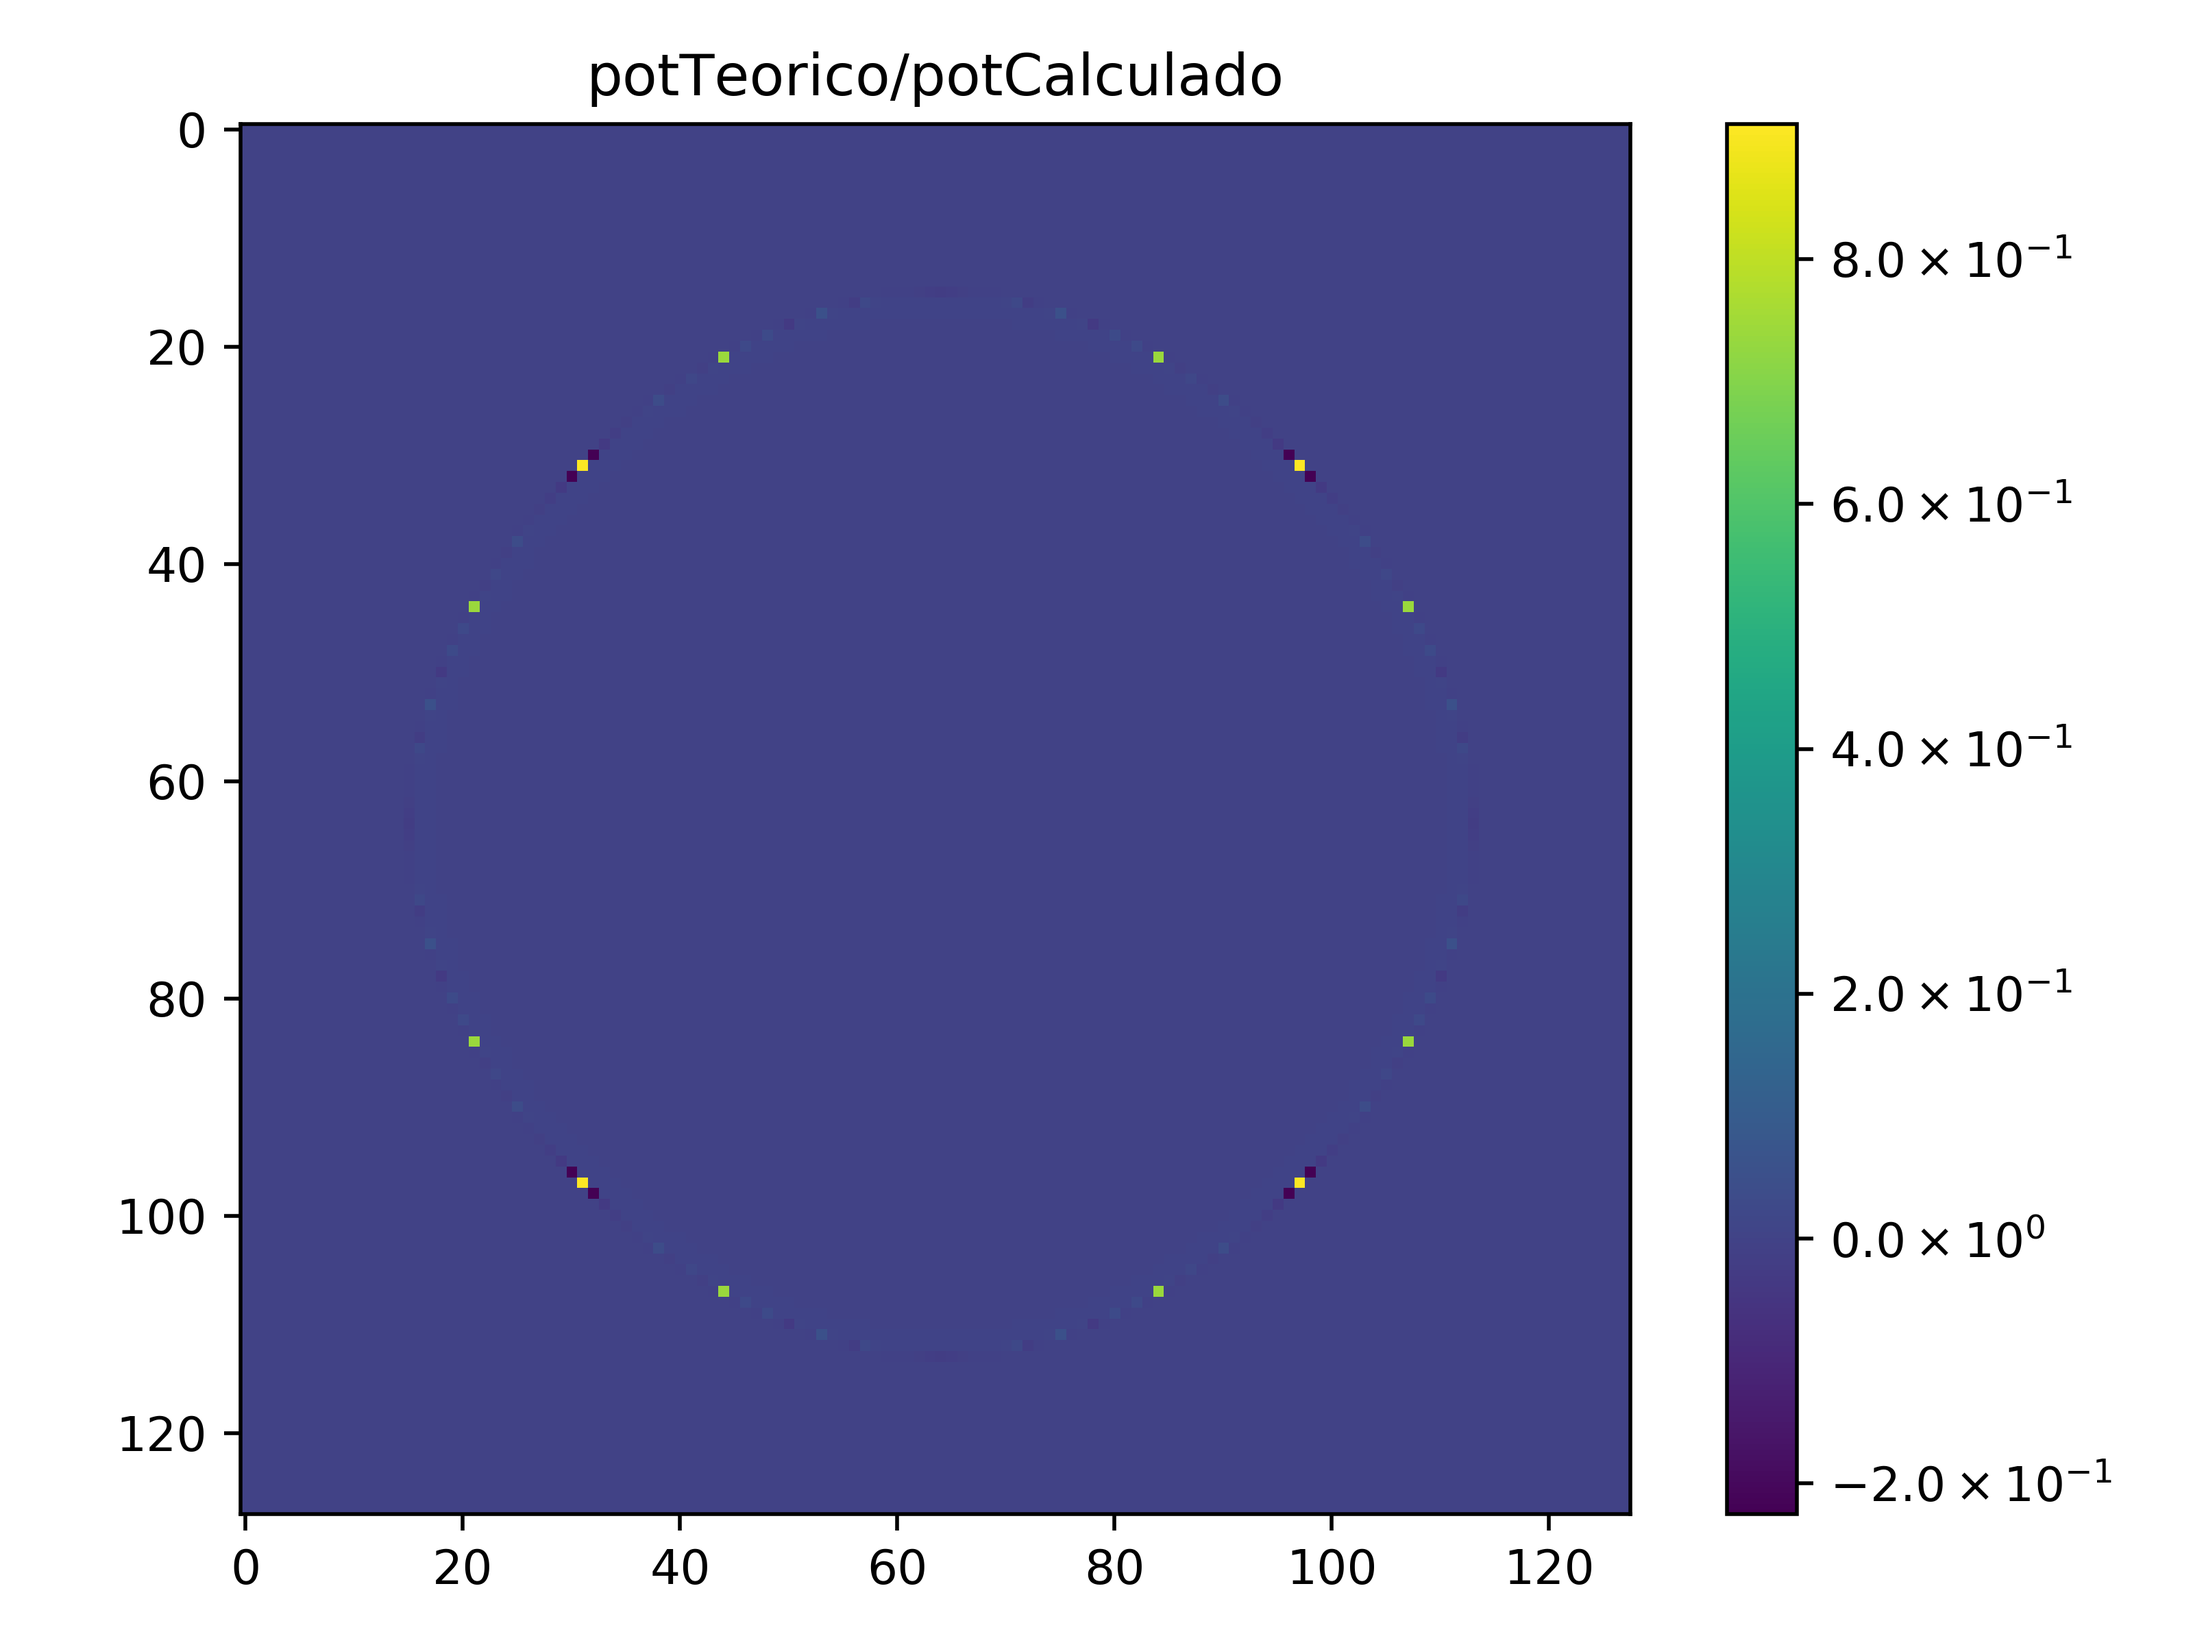
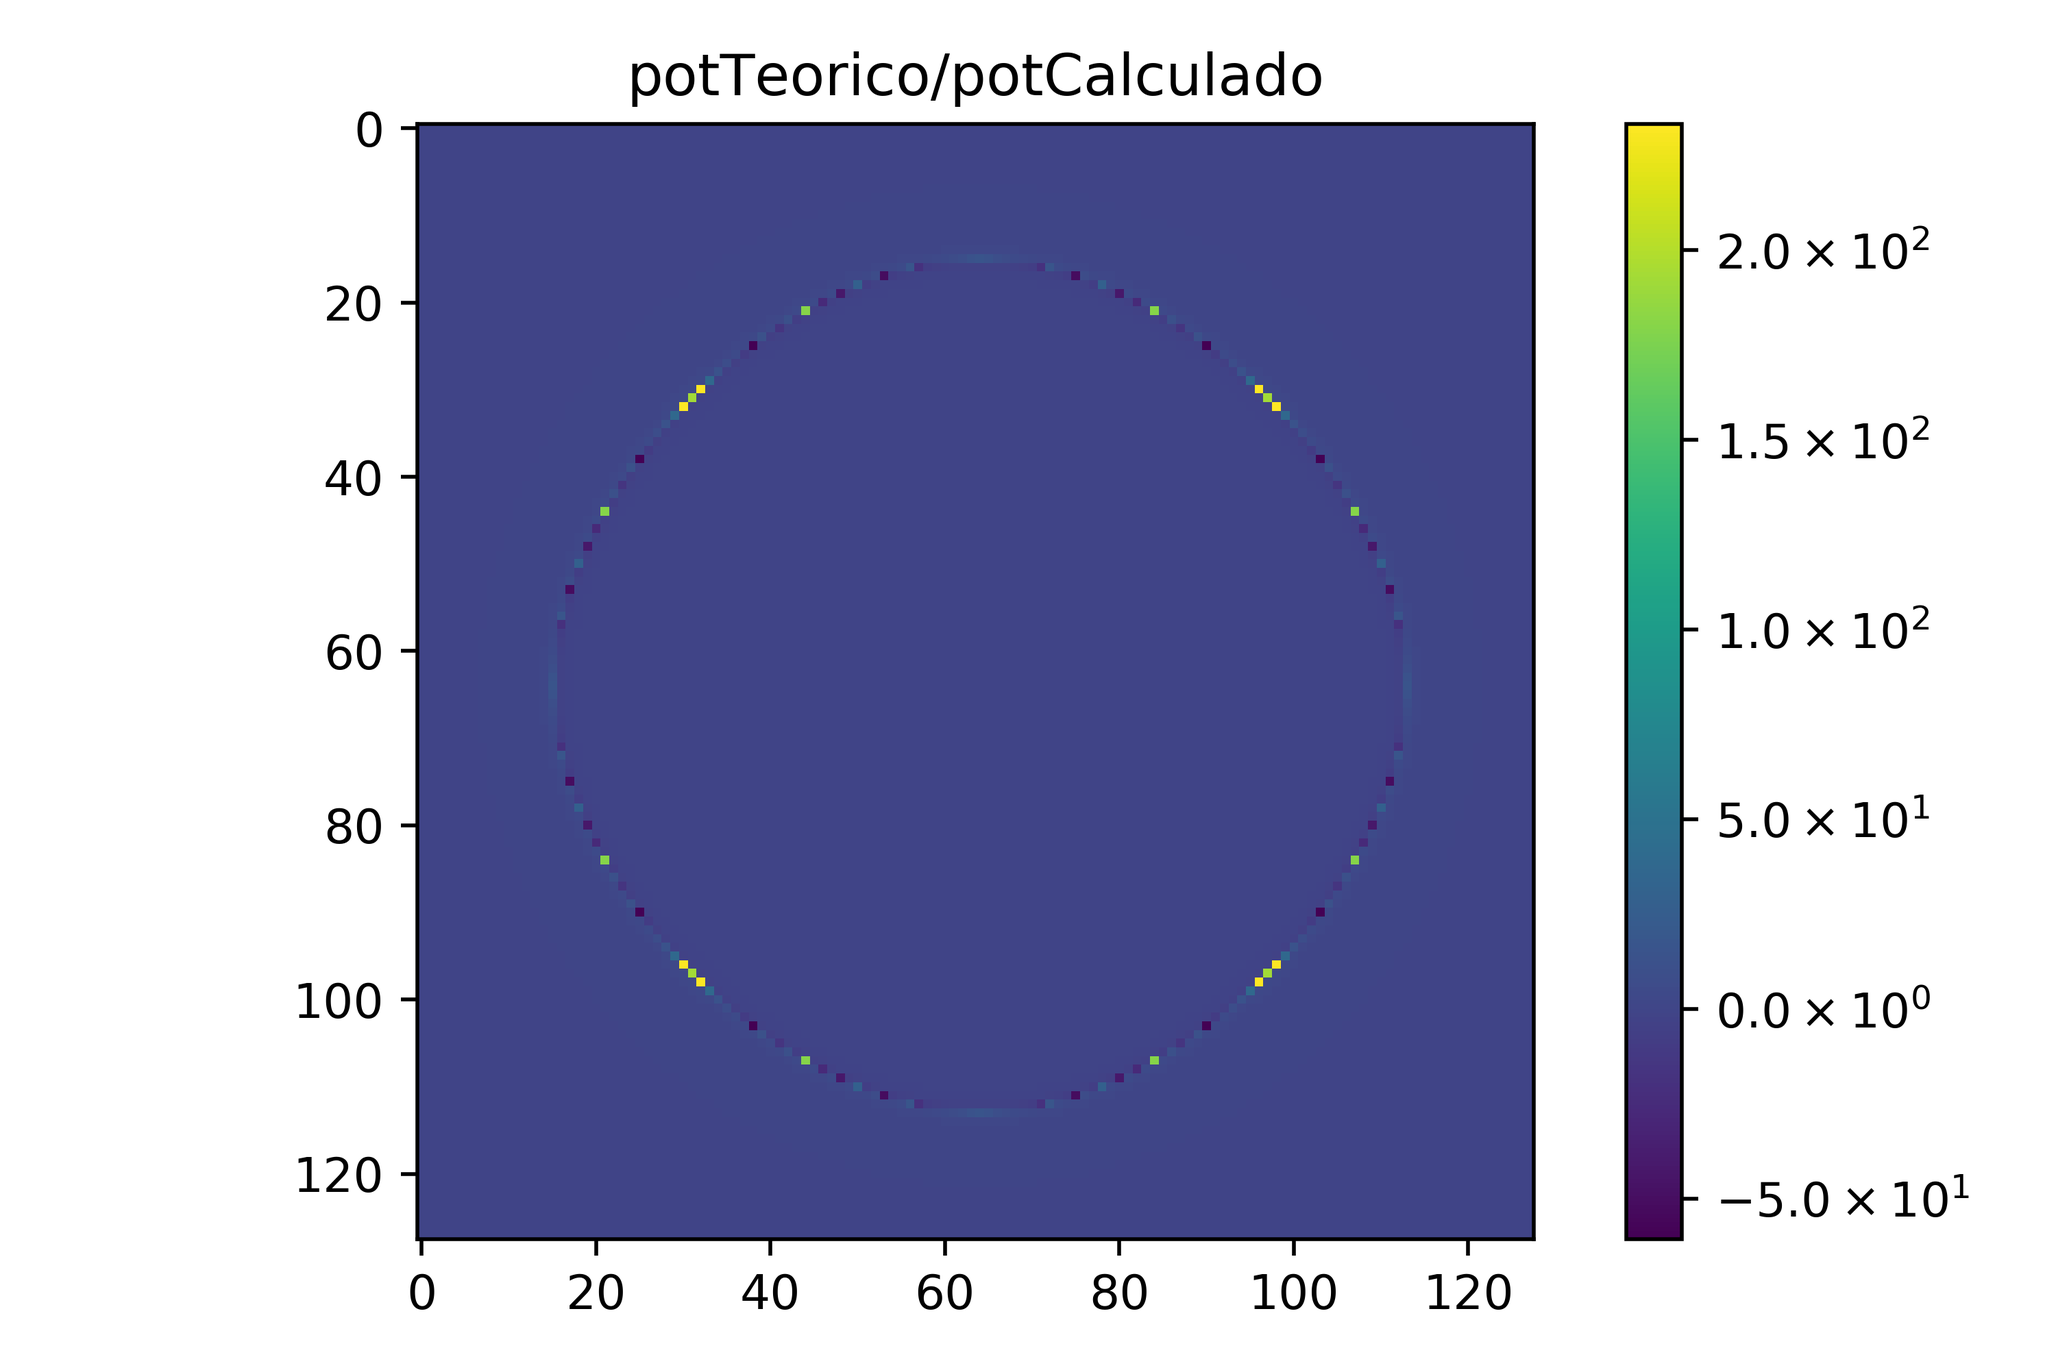
La fórmula parece ser correcta. No encuentro el error de la implementación

diff --git a/poissonSolver.c b/poissonSolver.c
@@ -208,6 +208,7 @@ int main()
         //printf("Masa = %f\n", mass0);
         
 //        radius = 0.1;
+        totalMass = 0;
         for(k1=0;k1<Nx;k1+=1) {
             x = Xmin*1.0+dx*k1;
             for(k2=0;k2<Ny;k2+=1) {
@@ -215,6 +216,7 @@ int main()
                 //density[in(k1,k2)] = uniDisk(x,y,radius);
                 //density[in(k1,k2)] = MASSo;
                 density[in(k1,k2)] = densidadTeorica(k1,k2);
+                totalMass += densidadTeorica(k1,k2)*dx*dy;// + 2.0/PI/Nx/Ny;
             }
             //printf("%d\n",k1);
         }
@@ -424,8 +426,9 @@ double potencial()
     //Cargar densidad en in:
     for(k1=0;k1<Nx;k1+=1){
         for(k2=0;k2<Ny;k2+=1){
-        inE[in(k1,k2)] = giveDensity(k1,k2);
-
+        inE[in(k1,k2)] = giveDensity(k1,k2)- totalMass/((Xmax-Xmin)*(Ymax-Ymin));
+        inR[in(k1,k2)] = -1.0;
+        out[in(k1,k2)] = 0;
         }
     }
 
@@ -449,18 +452,28 @@ double potencial()
         for(k2 = 0; k2 <Ny   ;k2 += 1){
             //printf("%f\n", mem[in(k1,k2)]);
             //printf("%f %f %d %d\n",calcK2((double)k1,(double)k2), mem[in(k1,k2)],k1,k2);            
-            out[in(k1,k2)] = -PI*G*mem[in(k1,k2)]*calcK2((double)k1,(double)(k2));//Porque dx = dy y Nx = Ny.
+            out[in(k1,k2)] = -4*PI*G*(mem[in(k1,k2)])*calcK2((double)k1,(double)(k2));//Porque dx = dy y Nx = Ny.
             //printf("%f\n", mem[in(k1,k2)]);
             //out[in(k1,k2)] = -PI*G*mem[in(k1,k2)]/(creal(cpow(I*PI*dx*k1,2))+ creal(cpow(I*PI*dy*k2,2)));//Random plan b que parece fallar.
             //printf("%f\n", creal(cpow(I*PI*dx*k2,2)));
             
         //out[in(k1,k2)] = mem[in(k1,k2)]; //Descomentar esta línea para obtener la distribucion original.
-    
         }
-
     }
-    out[0] = PI*G*totalMass; //Posible alternativa para a0. Doesn't seems like it.
+    
+    
+        k1 = 0;
+        printf("a0 es %f\n", creal(mem[in(0,0)]));
+     //   out[in(0,0)] = 0;
+        
+        
+    for(k2 = 1; k2<Ny;k2+=1){
+      //  out[in(k1,k2)] = -PI*G*(mem[in(k1,k2)])*calcK2((double)k1,(double)(k2));//Porque dx = dy y Nx = Ny.
+    }
+
+//out[0] = PI*G*totalMass; //Posible alternativa para a0. Doesn't seems like it.
     fftw_execute(pIda);
+    printf("%f\n",totalMass);
 
 
     for(k1=0;k1<Nx;k1+=1){
@@ -481,13 +494,50 @@ double potencial()
 //Retorna 1/(sin2 + sin2).
 double calcK2(double i2, double j2)
 {
-    if( ( (j2 == 0) || (j2 == Nx/2) )  && ( (i2 == 0) || (i2 == Nx/2) )  ){
-        return 0;
+    //if( ( (j2 == 0) || (j2 == Nx/2) )  && ( (i2 == 0) || (i2 == Nx/2) )  ){
+    if( ( (j2 == 0) )  && ( (i2 == 0)   )  ){
+        return 1;
     }
-    double rta1= sin(dx*PI*j2);
-    double rta2= sin(dx*PI*i2);
-    return 1.0/(pow(rta1,2)+pow(rta2,2));
+     if(i2<Nx/2-1){
+         i2 = PI*i2;
+     }
+     if(j2<Nx/2-1){
+         j2 = PI*j2;
+     }
+     if(i2>=Nx/2-1){
+         i2 = PI*(i2-Nx);
+     }
+     if(j2>=Nx/2-1){
+         j2 = PI*(j2-Ny);
+     }
+    //double rta1= sin(dx*PI*j2);
+    //double rta2= sin(dx*PI*i2);
+//     double rta1= -4*Nx*sin(PI*i2/Nx)/PI;
+//     double rta2= -4*Nx*sin(PI*j2/Nx)/PI;
+
+    //return 1.0/(pow(rta1,2)+pow(rta2,2));
+    return -1.0/(pow(i2,2)+pow(j2,2));
 }
+
+
+//double calcK2(double i2, double j2)
+//{
+//     if(i2<=Nx/2){
+//         i2 = PI*i2;
+//     }
+//     if(j2<=Nx/2){
+//         j2 = PI*j2;
+//     }
+//     if(i2>Nx/2){
+//         i2 = PI*(i2-Nx);
+//     }
+//     if(j2>Nx/2){
+//         j2 = PI*(j2-Ny);
+//     }
+// 
+//     return 1.0/(pow(i2,2) + pow(j2,2));
+//     
+//}
 
 //Retorna la densidad en (in1,in2).
 double giveDensity(int in1, int in2)
@@ -792,7 +842,7 @@ void loadPot(double alpha, int n)
                         iy = darY(j);
                         //pot[in(i,j)] = -alpha * pow(sqrt(pow(ix,2)+pow(iy,2)),n);
                         pot[in(i,j)] = potencialTeorico(i,j);
-                        printf("%d %d %f %f %f %f %f %f\n", i, j,darX(i),darY(j), givePot(i,j), cos(PI*darX(i)*0.5),cos(PI*darX(j)*0.5),cos(PI*darX(i)*0.5)*cos(PI*darY(j)*0.5));
+                        //printf("%d %d %f %f %f %f %f %f\n", i, j,darX(i),darY(j), givePot(i,j), cos(PI*darX(i)*0.5),cos(PI*darX(j)*0.5),cos(PI*darX(i)*0.5)*cos(PI*darY(j)*0.5));
                     }
 			}
 }

diff --git a/simPlots2D.py b/simPlots2D.py
@@ -28,6 +28,7 @@ dpi = 500
 densidadTheo = np.loadtxt('./datFiles/density0.dat')
 potTheo = np.loadtxt('./datFiles/potential0.dat')
 potReal = np.loadtxt('./datFiles/potential1.dat')
+#potReal = potReal - potReal[0,0]
 
 plt.imshow(densidadTheo)
 plt.title("Densidad cumple la ecuación de poisson del potTeorico")
@@ -63,7 +64,6 @@ def darY(iny):
 
 
 diff = potTheo/potReal/np.pi/8
-dif = np.log(diff)
 
 plt.figure()
 plt.imshow(diff)
